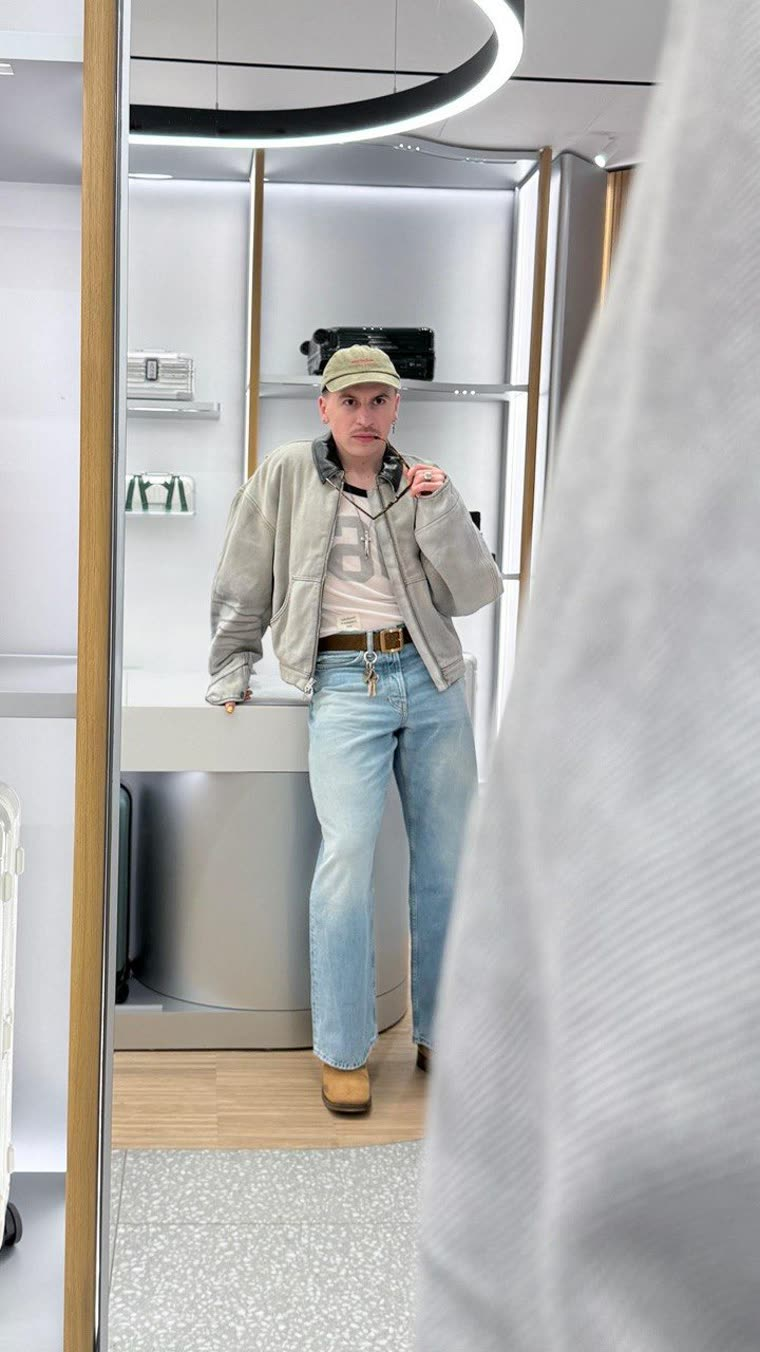
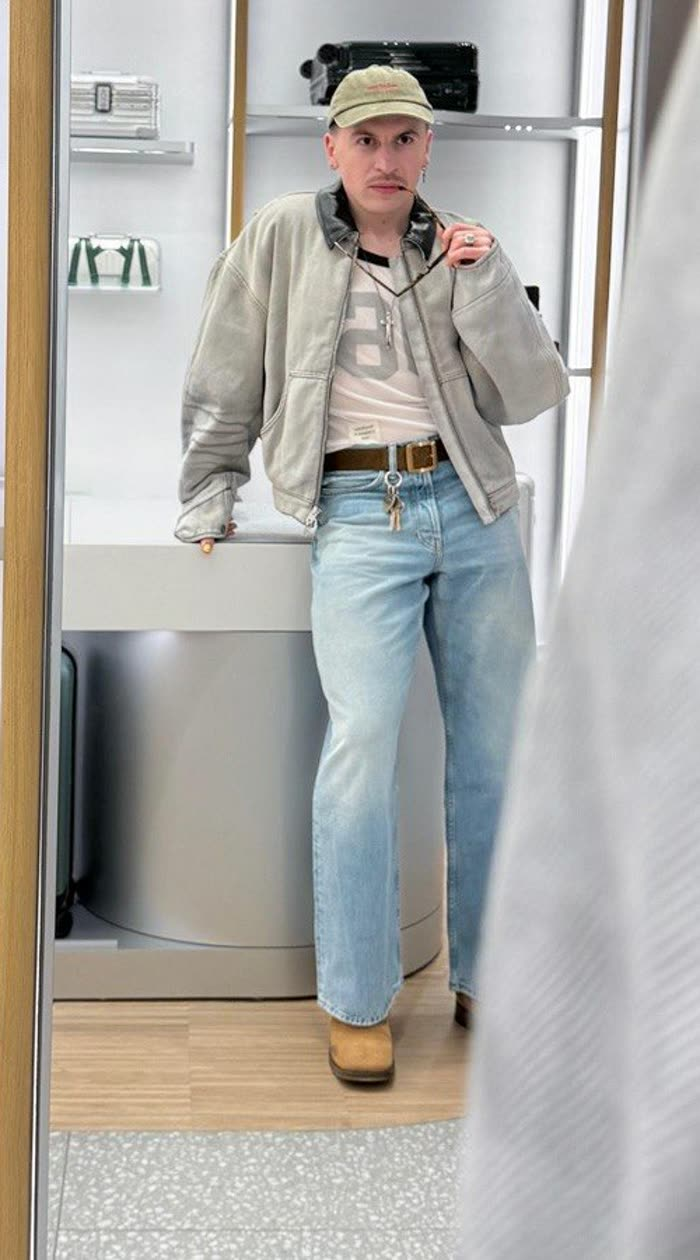
a thread through the upbringing, the heading takes the link, the prints come closer

diff --git a/src/styles/dream.css b/src/styles/dream.css
@@ -136,6 +136,50 @@
   justify-content: center;
 }
 
+/* Upbringing reads as a life, not a numbered list: one thread down the
+   margin, a bead at every year, the last one lit because it is still now. */
+[data-mode="dream"] .log li {
+  position: relative;
+  grid-template-columns: 1.75rem 1fr;
+  gap: 0.9rem;
+  padding-bottom: var(--sp-2);
+}
+
+[data-mode="dream"] .log li::before {
+  content: "";
+  justify-self: center;
+  align-self: start;
+  width: 7px;
+  height: 7px;
+  margin-top: 0.66em;
+  border-radius: 50%;
+  background: rgb(236 230 217 / 45%);
+  transition: background var(--dur) var(--ease);
+}
+
+[data-mode="dream"] .log li:last-child::before {
+  background: var(--hot);
+  box-shadow: 0 0 0 4px rgb(255 155 192 / 16%);
+}
+
+[data-mode="dream"] .log li::after {
+  content: "";
+  position: absolute;
+  left: calc(0.875rem - 0.5px);
+  top: calc(0.66em + 11px);
+  bottom: -2px;
+  width: 1px;
+  background: rgb(236 230 217 / 16%);
+}
+
+[data-mode="dream"] .log li:last-child::after {
+  display: none;
+}
+
+[data-mode="dream"] .log li:hover::before {
+  background: var(--hot);
+}
+
 /* The vinyl keeps spinning, in dusk and pink. */
 [data-mode="dream"] .ascii {
   --ink-void: #262b44;
@@ -354,6 +398,22 @@
 
 [data-mode="dream"] .card-no {
   display: none;
+}
+
+[data-mode="dream"] .reg-line {
+  display: grid;
+  gap: 0.1rem;
+  margin: 0 0 var(--sp-2);
+}
+
+[data-mode="dream"] .card-title a {
+  color: inherit;
+  text-decoration: none;
+  transition: color var(--dur) var(--ease);
+}
+
+[data-mode="dream"] .card-title a:hover {
+  color: var(--hot);
 }
 
 [data-mode="dream"] .card-what {

diff --git a/src/styles/global.css b/src/styles/global.css
@@ -72,7 +72,7 @@
   font-style: normal;
   font-weight: 400;
   font-display: block;
-  unicode-range: U+1F680, U+1F5FC-1F5FD;
+  unicode-range: U+1F485, U+1F680, U+1F5FC-1F5FD;
 }
 
 :root {
@@ -464,6 +464,18 @@ svg.pin {
   grid-column: 2 / -1;
   color: var(--faint);
   font-size: var(--t-sm);
+}
+
+/* One company, named by the heading above it: what it is, then the role.
+   Its own grid, because outside .reg li the two spans ran together. */
+.reg-line {
+  display: grid;
+  gap: 0.15rem;
+  margin: 0 0 var(--sp-3);
+}
+
+.reg-line .reg-role {
+  grid-column: 1;
 }
 
 /* ── receipts ───────────────────────────────────────────────────────────── */
